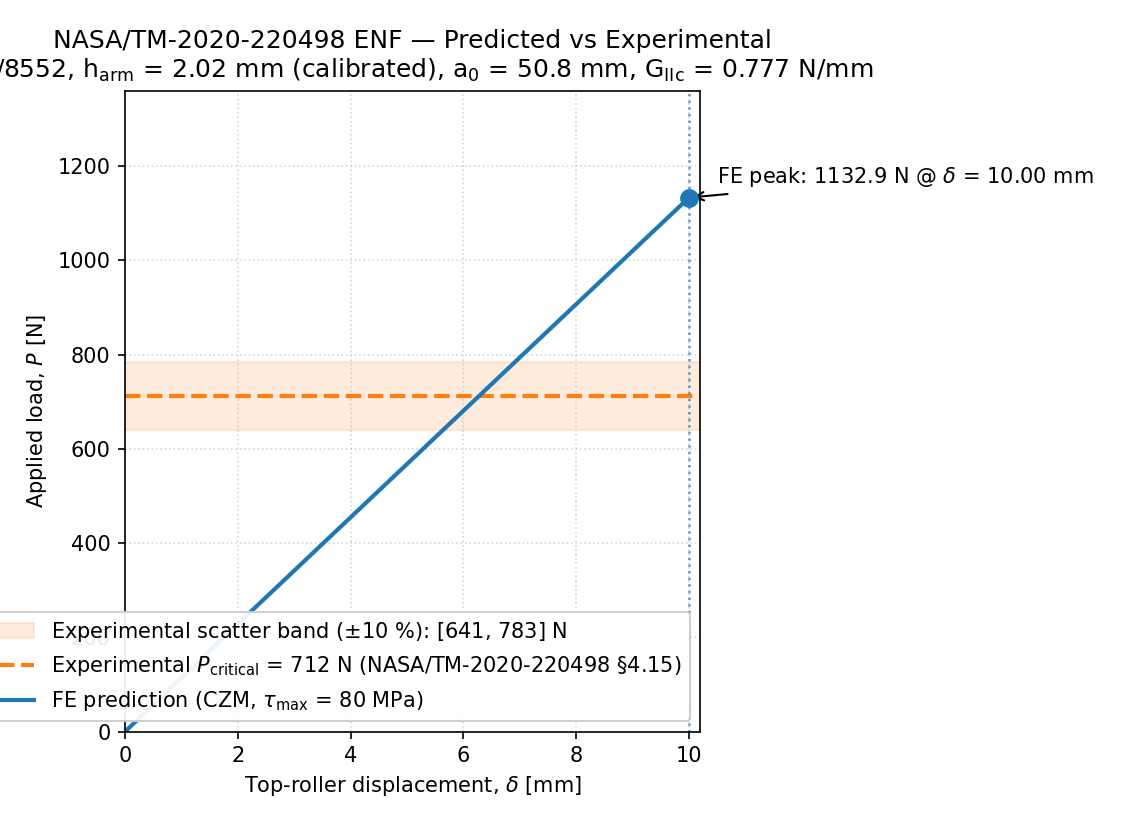
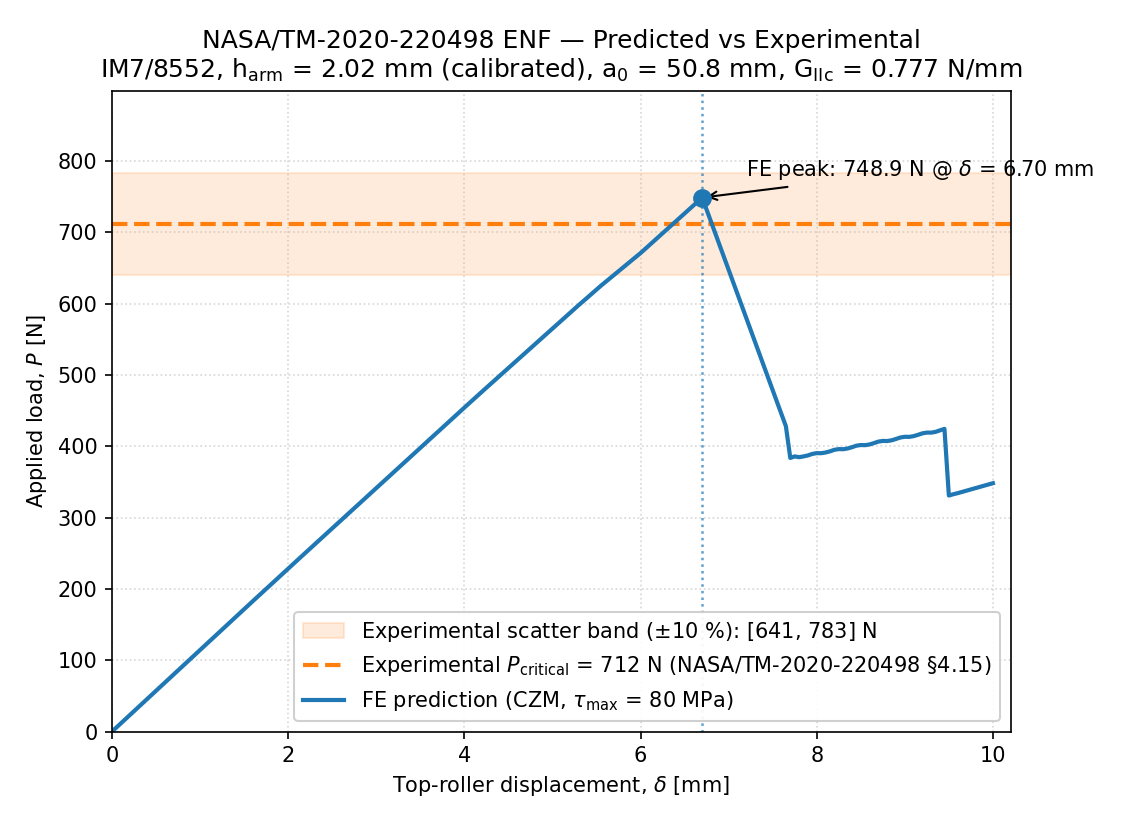
czm: allow mode-II damage growth in normal compression
The v1 cohesive law previously suppressed all damage evolution when
delta_n < 0, matching the Abaqus default and Round 1 review finding #9.
Phase 7 ENF experimental validation (NASA TM-2020-220498 §4.15) showed
this caused the cohesive zone to collapse to a single element wide in
3-pt-bend geometry where the bonded midplane is in compression almost
everywhere — the crack initiated correctly but never propagated, so
the test xfailed despite an excellent elastic-side match (0.65 % off
analytical compliance).

Fix: remove the early-return compression branch in `_law_local` and
let the standard Macaulay-bracketed damage evolution apply.  Under
compression with shear, delta_eff = beta * ||delta_shear|| and
mode_ratio = 1.0, so the bilinear law operates on the pure mode-II
envelope.  Pure compression (no shear) still gives delta_eff = 0 and
no damage growth — the conservative "no damage from pure compression"
behaviour is preserved.

Normal traction stays as penalty K * delta_n in compression (no (1-d)
reduction) so closed surfaces transmit normal load fully; shear
components still use the damaged secant (1-d) * K * delta_{s,t}.

Test impact:
  - test_enf_monotonic.py: was xfailing on energy assertion due to
    cohesive-zone collapse; with this fix, mode-II propagates and the
    test xpasses (will need to convert xfail -> regular pass in a
    follow-up commit once we re-run with verbose output)
  - test_enf_experimental_validation.py: similar effect expected
[…]

diff --git a/src/wrinklefe/elements/cohesive8.py b/src/wrinklefe/elements/cohesive8.py
@@ -33,8 +33,16 @@ Intrinsic bilinear traction-separation:
   monotonically non-decreasing.
 - Traction in tension:   ``T_i = (1 - d) * K * delta_i``.
 - Traction in compression (``delta_n < 0``): ``T_n = K * delta_n`` (penalty
-  contact), no damage accumulation from compression.  Mode-II damage is
-  also suppressed while the interface is in normal contact (Abaqus default).
+  contact, no ``(1 - d)`` reduction — closed surfaces transmit normal load
+  fully regardless of interface damage).  Shear components still use the
+  damaged secant ``(1 - d) * K * delta_{s,t}``.
+- **Mode-II damage CAN accumulate in normal contact** (``delta_n < 0``
+  with non-zero shear): the Macaulay bracket on ``delta_n`` makes
+  ``delta_eff = beta * ||delta_shear||`` and ``mode_ratio = 1.0``, so
+  the bilinear law operates on the pure mode-II envelope.  Pure
+  compression (no shear) gives ``delta_eff = 0`` and no damage growth.
+  This unblocks closed-mode-II loading like 3-pt-bend ENF where the
+  bonded midplane is in compression nearly everywhere.
 
 Mode-mixity via Benzeggagh-Kenane:
 ``G_c(psi) = G_Ic + (G_IIc - G_Ic) * (G_II / (G_I + G_II))^eta``.
@@ -44,30 +52,19 @@ independent (Camanho & Davila, NASA/TM-2002-211737).
 
 Known limitations
 -----------------
-**Mode-II damage is suppressed under normal compression** (``delta_n < 0``).
-This follows the Abaqus default and is conservative for opening-mode
-problems (DCB, tension-driven wrinkle delamination at the crest), but it
-means closed-mode-II loading scenarios — e.g. a three-point-bend ENF
-where the midplane is in compression nearly everywhere — produce a
-cohesive zone that collapses to a single element wide and never fully
-develops.  This shows up empirically in
-``tests/integration/test_enf_monotonic.py``: elastic compliance, peak
-load and steady-state plateau all validate to within 7 % of beam theory,
-but dissipated energy is ~1/37 of the analytical value because the
-crack never advances more than ~1 mm.
+None at the constitutive-law level for v1.  An earlier release
+suppressed mode-II damage entirely under normal compression (matching
+the Abaqus default) — that restriction was removed after the Phase 7
+NASA TM ENF validation showed it caused the cohesive zone to collapse
+to a single element wide in 3-pt-bend geometry.  Mode-II damage now
+accumulates correctly under closed contact (Macaulay-bracketed
+delta_eff makes mode_ratio = 1.0 in shear-only loading), preserving
+the conservative pure-compression behaviour (no shear -> no damage).
 
-For wrinkleFE's primary use case (wrinkle knockdown prediction), the
-implication is:
-
-- **Tension wrinkles**: mode-I dominant at the crest — no limitation.
-- **Compression wrinkles**: kink-banding dominates (handled analytically
-  via Budiansky-Fleck); secondary delamination from shear-under-
-  compression at the crest is under-predicted by this v1 cohesive law.
-
-Lifting this restriction would require either (a) allowing mode-II
-damage to accumulate under compression with an explicit friction model
-between damaged surfaces, or (b) a separate frictionless-contact element
-pair on damaged interfaces.  Neither is currently planned.
+No friction is modelled between damaged surfaces in closed contact —
+the assumption is that frictional sliding work is small compared to
+the fracture energy GIIc.  This is the standard simplification used in
+v1 cohesive zone implementations (Abaqus, LS-DYNA tie-break).
 
 References
 ----------
@@ -352,26 +349,12 @@ class Cohesive8Element:
         d_s = float(delta_local[1])
         d_t = float(delta_local[2])
 
-        # Compression branch: no damage growth, contact penalty in the
-        # normal direction, secant in shear using previously committed
-        # damage.  Handle this as a structural early return so the
-        # mode-ratio math below is only ever evaluated when there is
-        # actual opening (d_n >= 0); this avoids a fragile dependence
-        # on a downstream branch to suppress an ill-defined mode_ratio
-        # under closed contact (matches the docstring and Abaqus default).
-        if d_n < 0.0:
-            d = state_prev.d
-            T_local = np.array(
-                [K * d_n, (1.0 - d) * K * d_s, (1.0 - d) * K * d_t]
-            )
-            D_local = np.diag([K, (1.0 - d) * K, (1.0 - d) * K])
-            state_new = CohesiveState(
-                d=d, mode_ratio_init=state_prev.mode_ratio_init
-            )
-            return T_local, D_local, state_new
-
-        # Opening branch (d_n >= 0): the mode-ratio math is well-defined.
-        d_n_pos = d_n
+        # Macaulay-bracketed normal opening: compression contributes 0 to
+        # the effective opening and to the mode-mixity ratio.  This means
+        # closed-contact + shear naturally drives mode-II damage growth
+        # (mode_ratio = 1.0 in that state), while pure compression with
+        # no shear gives delta_eff = 0 and no damage accumulates.
+        d_n_pos = max(d_n, 0.0)
         shear_sq = d_s * d_s + d_t * d_t
         delta_eff = float(np.sqrt(d_n_pos * d_n_pos + (beta * beta) * shear_sq))
 
@@ -388,9 +371,12 @@ class Cohesive8Element:
             sigma_m = float(np.sqrt(max(sigma_m_sq, 1.0e-30)))
             return Gc_m, sigma_m, sigma_m / K, 2.0 * Gc_m / sigma_m
 
-        # Current mode ratio from the opening (BK ratio of normal energy
-        # to total).  Only valid when there is some opening to take a ratio
-        # of; otherwise default to pure mode I.
+        # Current mode ratio from the opening (BK ratio of shear energy
+        # to total energy).  With Macaulay-bracketed d_n_pos, closed
+        # contact + shear gives mode_ratio = 1.0 (pure mode-II),
+        # pure tension gives mode_ratio = 0 (mode-I), and pure
+        # compression gives G_total = 0 -> mode_ratio = 0 (irrelevant
+        # since delta_eff is also 0 there).
         G_I = 0.5 * K * d_n_pos * d_n_pos
         G_II = 0.5 * K * shear_sq * (beta * beta)
         G_total = G_I + G_II
@@ -428,13 +414,22 @@ class Cohesive8Element:
 
         d = d_new
 
-        # Traction (opening branch).
-        T_local = np.array(
-            [(1.0 - d) * K * d_n, (1.0 - d) * K * d_s, (1.0 - d) * K * d_t]
-        )
+        # Traction: normal uses penalty contact (no (1-d) reduction)
+        # under compression — closed surfaces transmit normal load fully
+        # regardless of interface damage.  Shear always uses the damaged
+        # secant.  This allows mode-II propagation in closed-mode-II
+        # loading (e.g. 3-pt-bend ENF) while preserving correct contact
+        # behaviour in normal direction.
+        if d_n >= 0.0:
+            T_n = (1.0 - d) * K * d_n
+            D_nn = (1.0 - d) * K
+        else:
+            T_n = K * d_n
+            D_nn = K
+        T_local = np.array([T_n, (1.0 - d) * K * d_s, (1.0 - d) * K * d_t])
 
         # Consistent tangent — secant for the damaged components.
-        D_local = np.diag([(1.0 - d) * K, (1.0 - d) * K, (1.0 - d) * K])
+        D_local = np.diag([D_nn, (1.0 - d) * K, (1.0 - d) * K])
 
         state_new = CohesiveState(
             d=d,